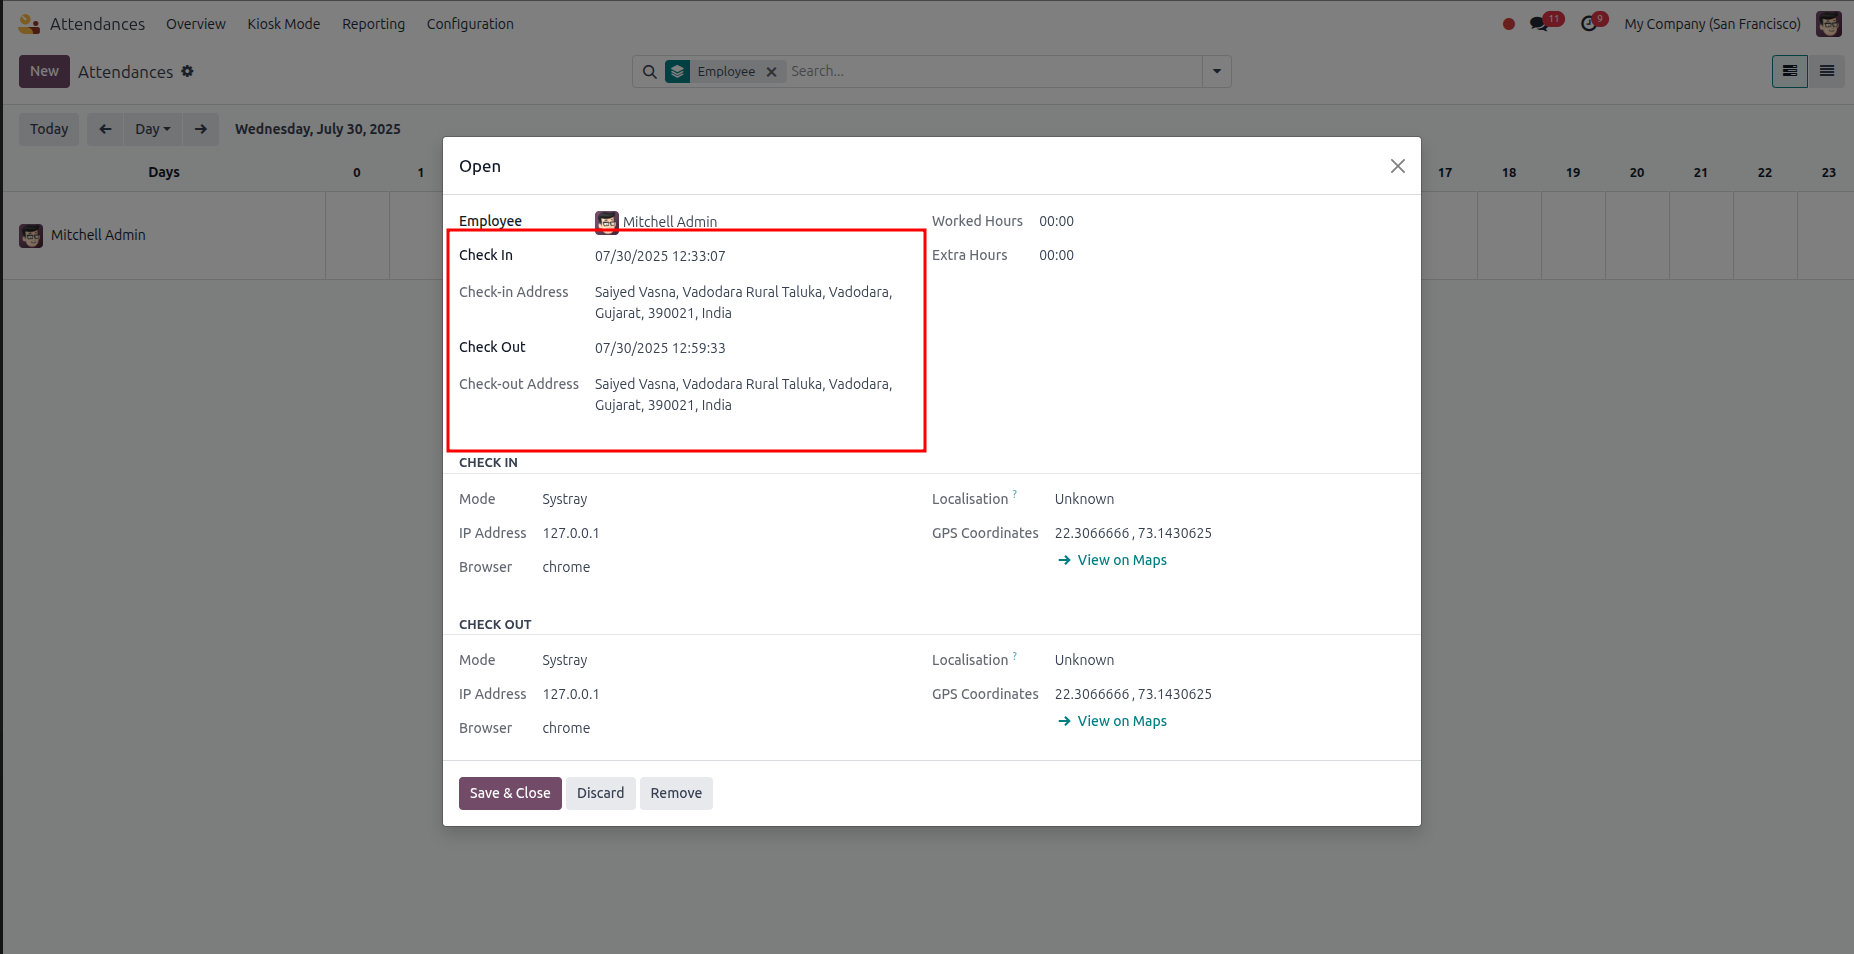
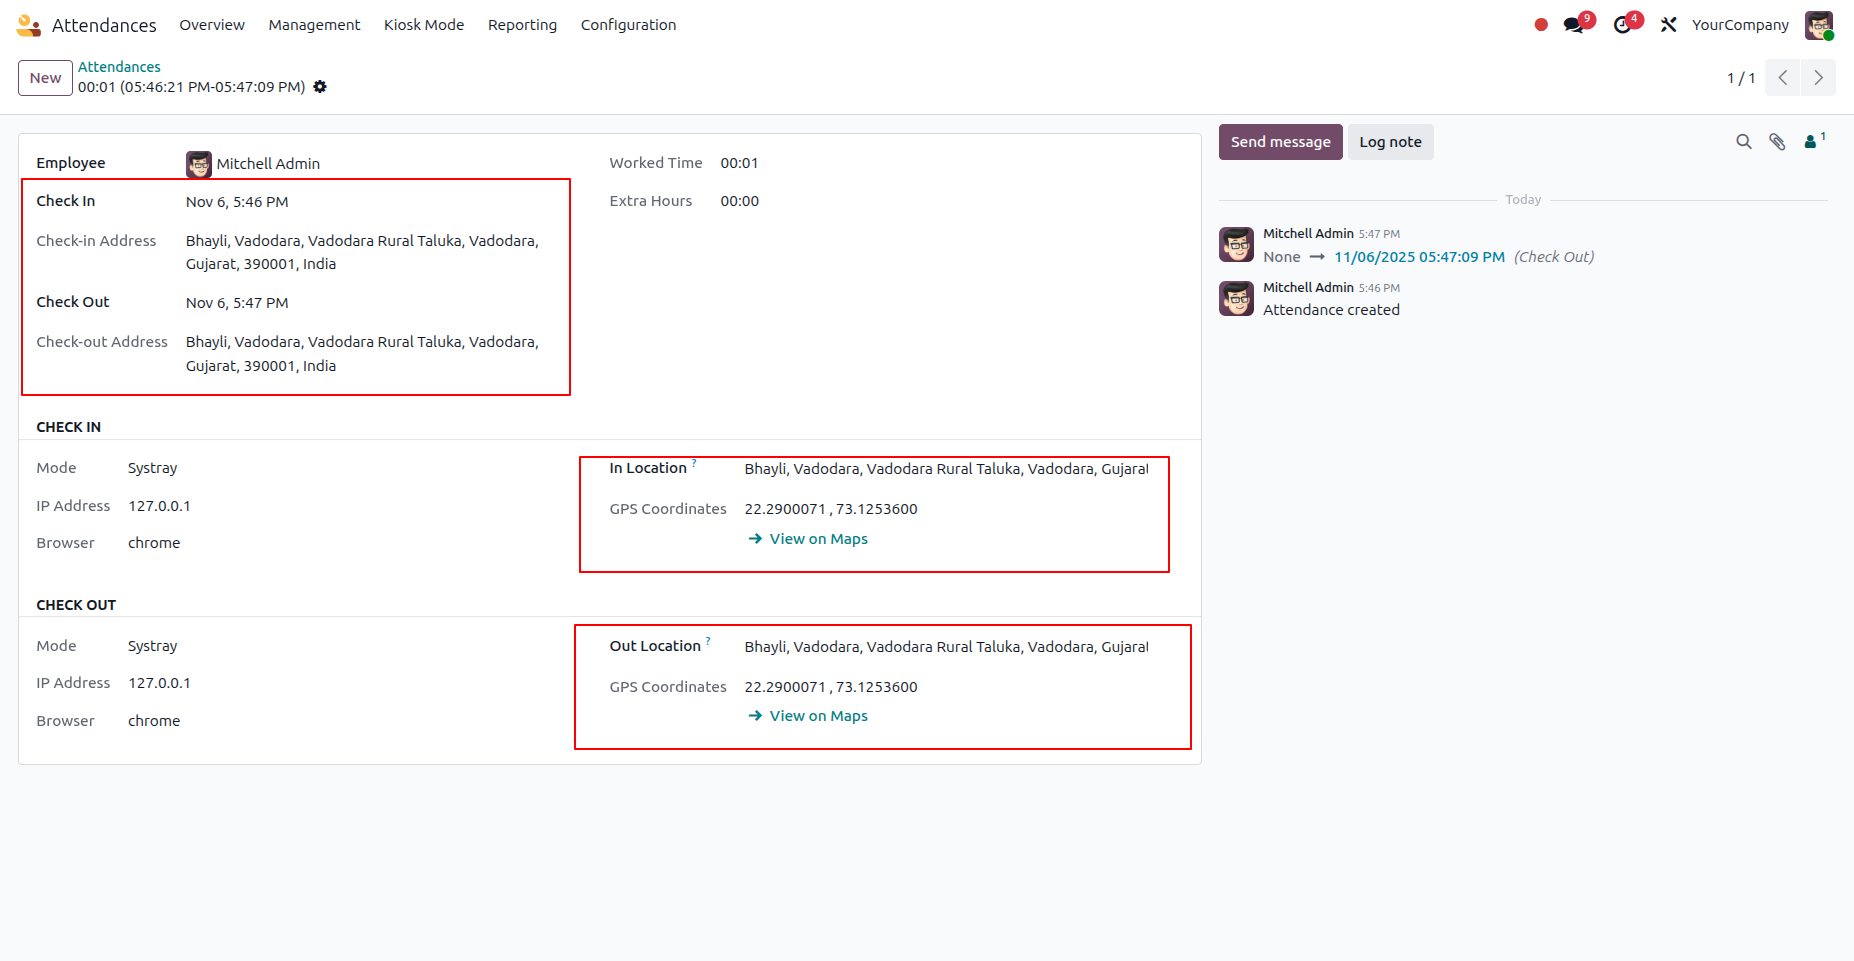
Add files via upload

diff --git a/nspl_fetch_attendance_location/static/description/index.html b/nspl_fetch_attendance_location/static/description/index.html
@@ -91,29 +91,29 @@ border-top: 3px solid #f9b233;
 
                             </div>
 
-                            <!-- Demo Button -->
-                            <div style="
-display: flex;
-gap: 20px;
-align-items: center;
-justify-content: center;
-margin-top: 40px;
-">
-                                <button type="button" style="
-display: flex;
-gap: 12px;
-align-items: center;
-justify-content: center;
-background-color: #a04b95;
-color: #fff;
-padding: 15px 30px;
-font-weight: 600;
-border: none;
-border-radius: 12px;
-">
-                                    <img src="img/video.png" alt="video" /> WATCH A DEMO
-                                </button>
-                            </div>
+<!--                            &lt;!&ndash; Demo Button &ndash;&gt;-->
+<!--                            <div style="-->
+<!--display: flex;-->
+<!--gap: 20px;-->
+<!--align-items: center;-->
+<!--justify-content: center;-->
+<!--margin-top: 40px;-->
+<!--">-->
+<!--                                <button type="button" style="-->
+<!--display: flex;-->
+<!--gap: 12px;-->
+<!--align-items: center;-->
+<!--justify-content: center;-->
+<!--background-color: #a04b95;-->
+<!--color: #fff;-->
+<!--padding: 15px 30px;-->
+<!--font-weight: 600;-->
+<!--border: none;-->
+<!--border-radius: 12px;-->
+<!--">-->
+<!--                                    <img src="img/video.png" alt="video" /> WATCH A DEMO-->
+<!--                                </button>-->
+<!--                            </div>-->
                         </div>
                     </section>
                 </div>
@@ -415,12 +415,12 @@ support@namahsoftech.com
 
             </div>
             <!-- Bottom CTA Button -->
-            <div>
-                <a href="#"
-                    style="display: inline-block; background-color: #8d2a7b; color: white; padding: 15px 30px; border-radius: 10px; text-decoration: none; font-weight: bold; font-size: 16px;">
-                    <span style="margin-right: 10px;"><img src="img/video.png" alt=""></span>Watch Demo
-                </a>
-            </div>
+<!--            <div>-->
+<!--                <a href="#"-->
+<!--                    style="display: inline-block; background-color: #8d2a7b; color: white; padding: 15px 30px; border-radius: 10px; text-decoration: none; font-weight: bold; font-size: 16px;">-->
+<!--                    <span style="margin-right: 10px;"><img src="img/video.png" alt=""></span>Watch Demo-->
+<!--                </a>-->
+<!--            </div>-->
 
         </div>
     </section>

diff --git a/nspl_fetch_attendance_location/__manifest__.py b/nspl_fetch_attendance_location/__manifest__.py
@@ -1,6 +1,6 @@
 {
     'name': 'Fetch Attendance Location',
-    'version': '18.0',
+    'version': '19.0.1',
     'summary': 'Automatically fetch Check-In and Check-Out Locations in HR Attendance',
     'description': """
     This module enhances the HR Attendance system by automatically capturing 
